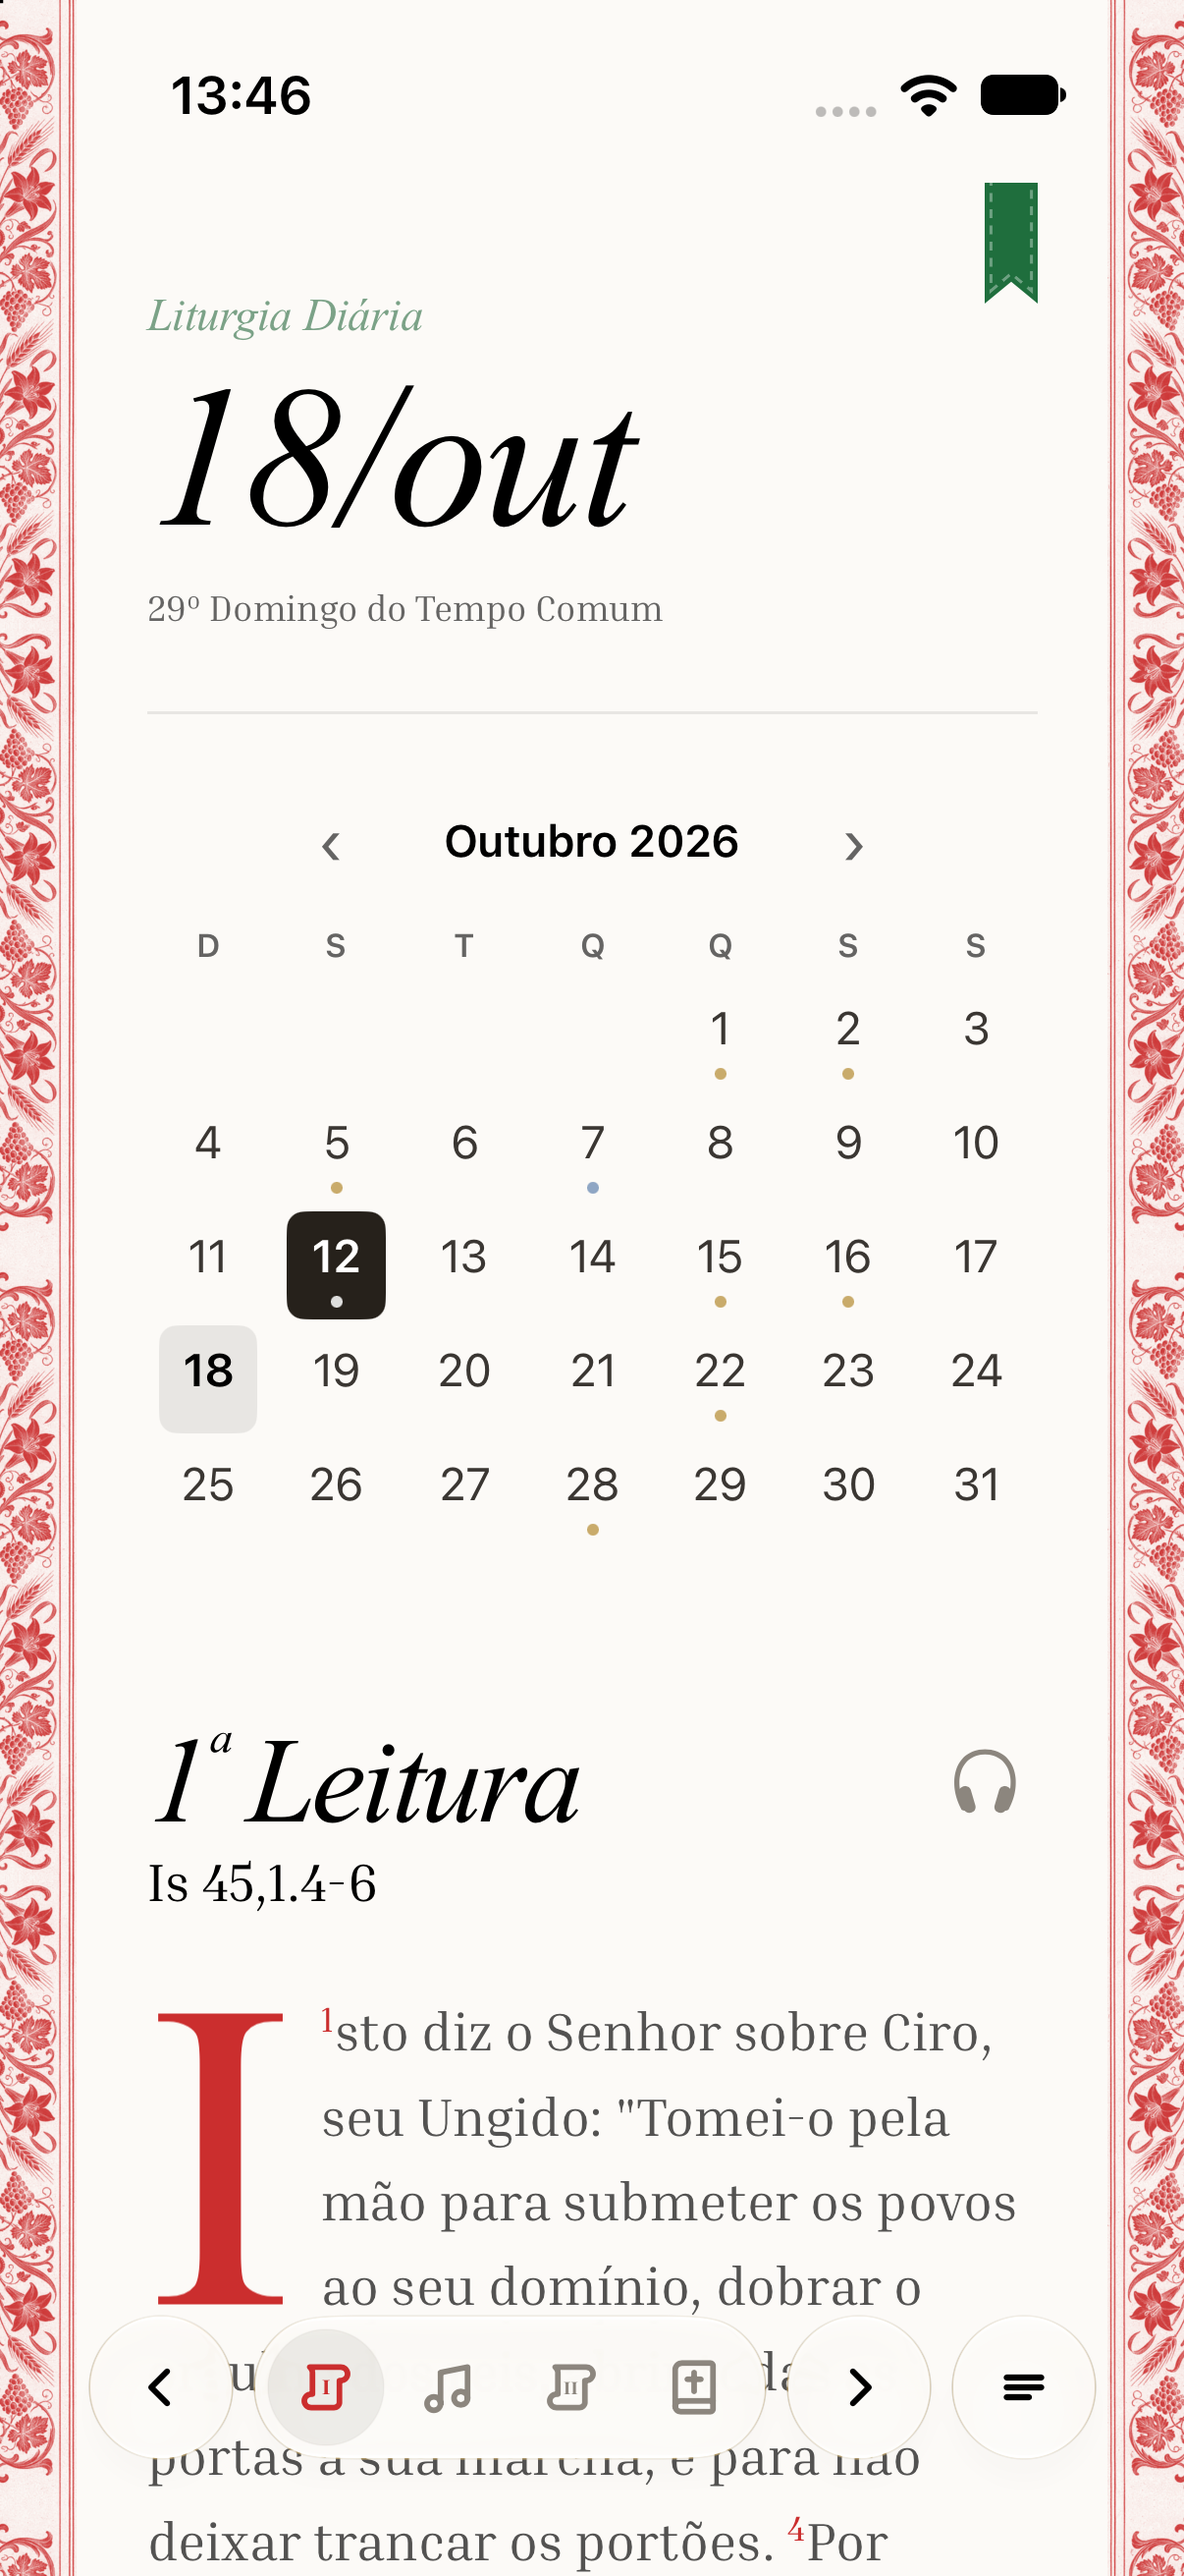
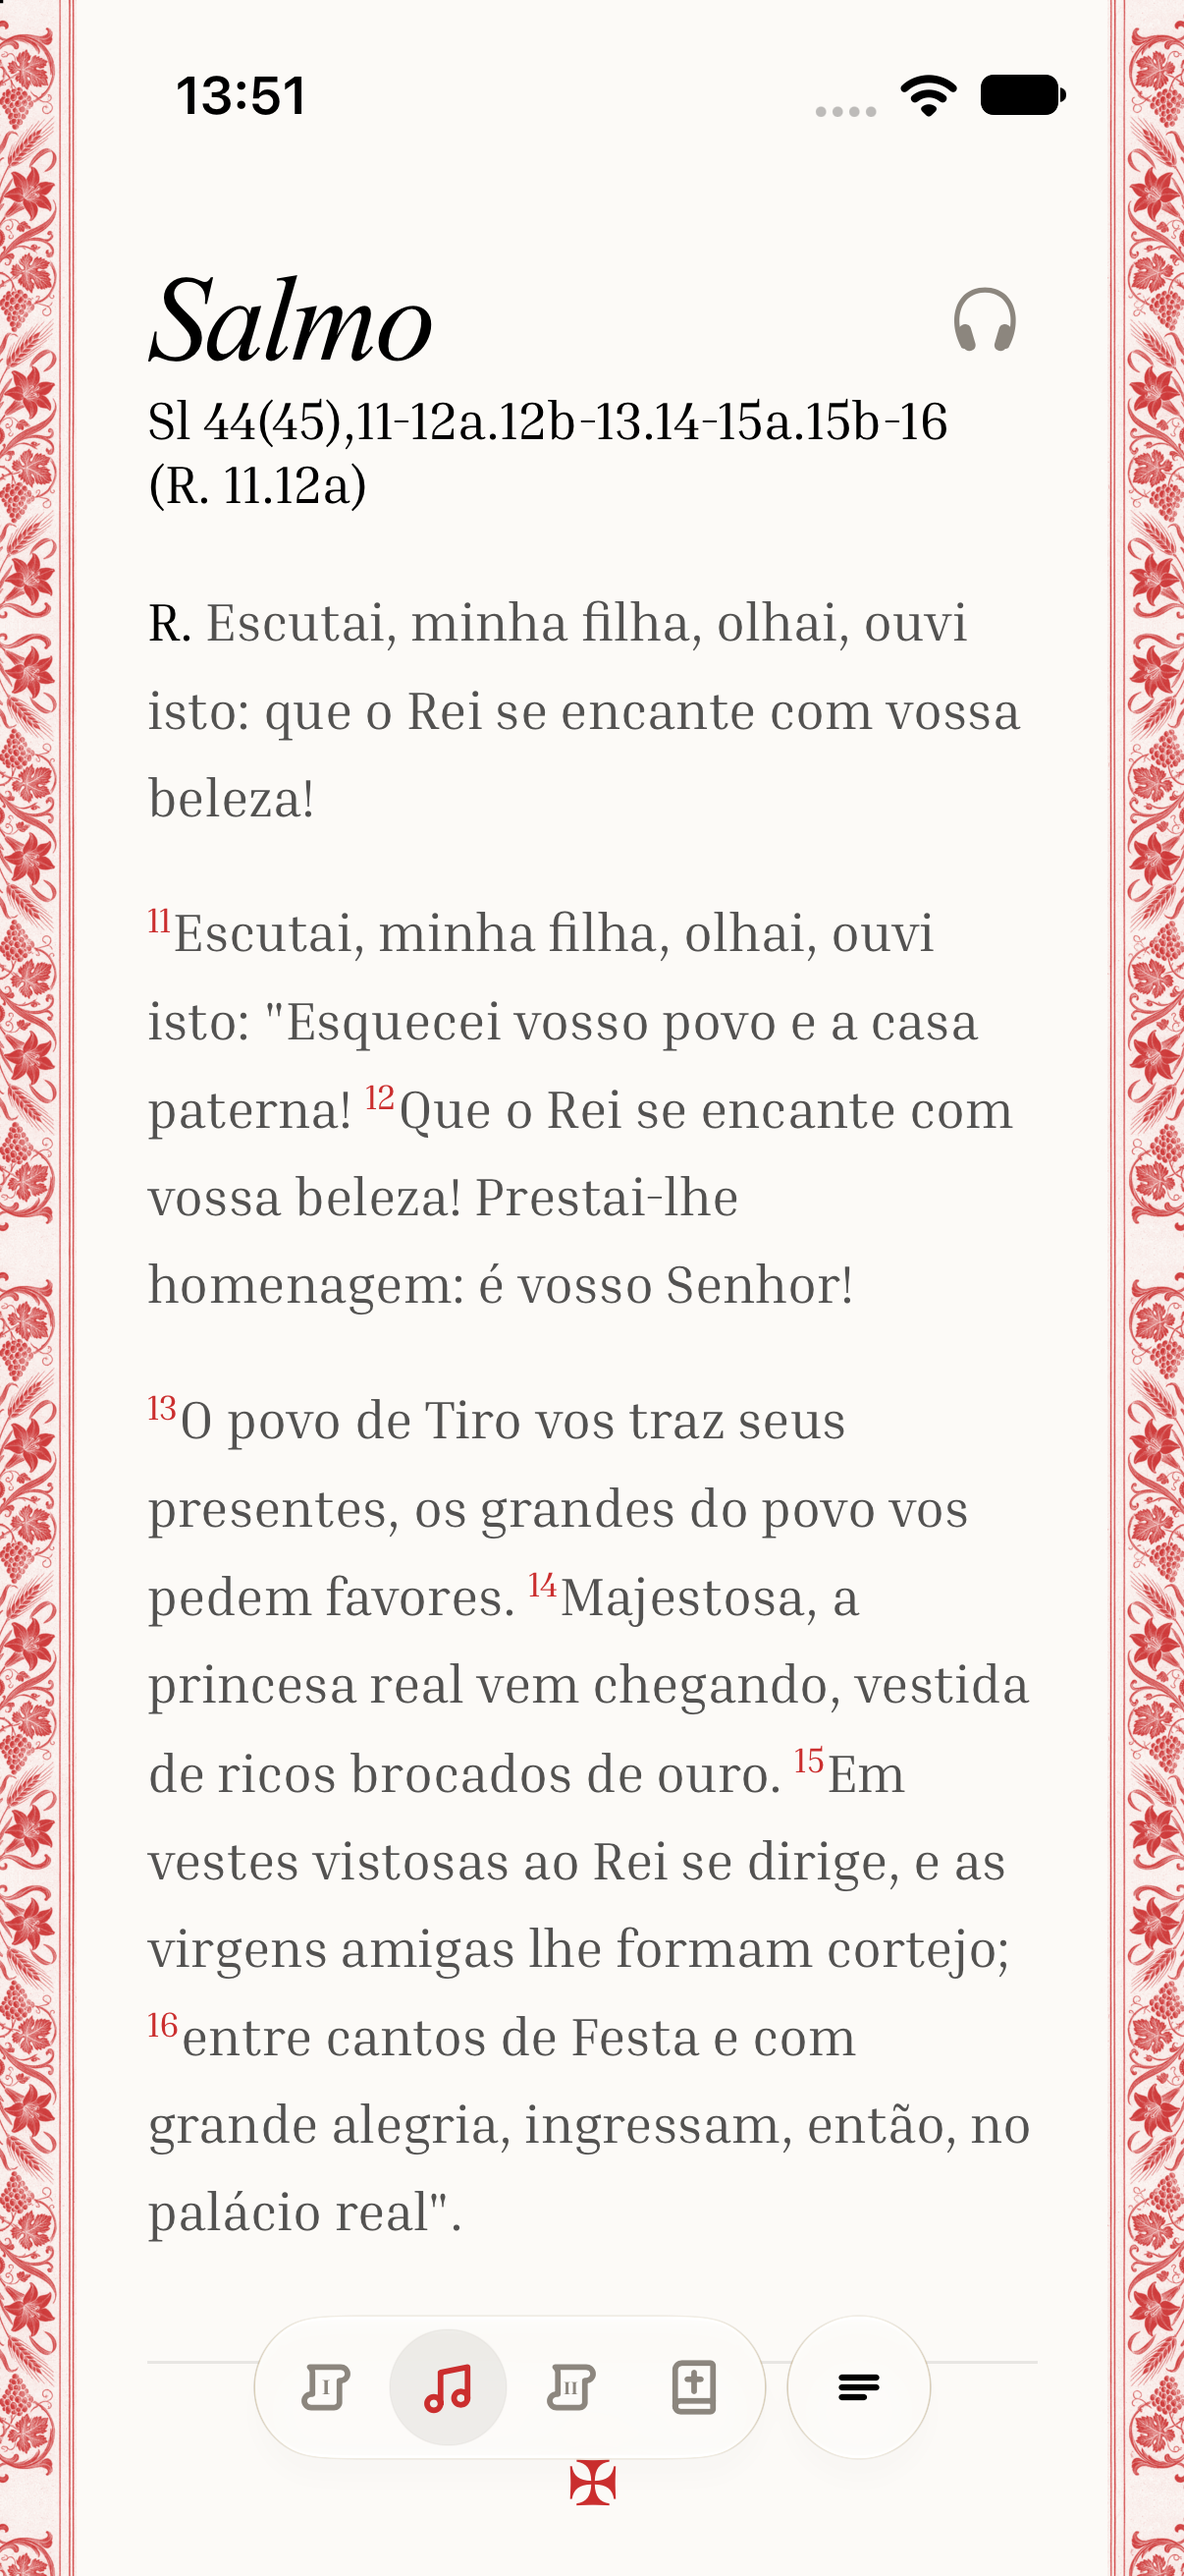
style(ios): setas de dia só no menu; barra fica com as leituras e o menu

diff --git a/ios/LiturgiaDiaria/BarraLeituras.swift b/ios/LiturgiaDiaria/BarraLeituras.swift
@@ -33,11 +33,8 @@ struct BarraLeituras: View {
 
     var body: some View {
         Group {
-            BotaoDia(sentido: -1, lado: lado, ns: ns, ativo: anterior, acao: { mudarDia(-1) })
-                .accessibilityLabel("Dia anterior")
+            // as setas de dia ficam só no menu (pedido do dono)
             if !blocos.isEmpty { abas }
-            BotaoDia(sentido: 1, lado: lado, ns: ns, ativo: proximo, acao: { mudarDia(1) })
-                .accessibilityLabel("Dia seguinte")
         }
     }
 
